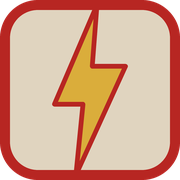
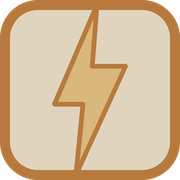
Recolour the mark to the deck-ink register and warm the page

diff --git a/app/globals.css b/app/globals.css
@@ -1,11 +1,11 @@
 @import "tailwindcss";
 
 @theme {
-  --color-paper: #f4f3ef;
-  --color-card: #fbfaf7;
+  --color-paper: #f6f4ef;
+  --color-card: #fcfbf8;
   --color-ink: #2c2c2a;
   --color-muted: #78776f;
-  --color-rule: #c9c7bd;
+  --color-rule: #ccc6b8;
   --color-question: #185fa5;
   --color-answer: #0f6e56;
   --font-sans: var(--font-body), ui-sans-serif, system-ui, sans-serif;

diff --git a/tools/wordmark.py b/tools/wordmark.py
@@ -54,7 +54,15 @@ BOLT_STROKE = 2.0
 BOLT = "M18 0 L0 42 H12 L9 72 L30 26 H16 Z"      # ink 30 wide, 72 tall
 BOLT_W, BOLT_H = 30.0, 72.0
 
-CREAM, RED, GOLD, INK = "#E0D4BF", "#B72622", "#DAAD3B", "#2C2C2A"
+# The frame and the bolt are named for their role, not their hue: they were a
+# saturated red and gold, and the mark was then the only mid-light, heavily
+# saturated field on the site. Every deck tint sits at L 83-90% and every deck
+# ink at S 33-51%/L 30-59%, so the two hot colours were moved into that ink
+# register, taking the warm hue SOLID already uses (tint #FAD9BE, ink #B87A3C).
+# They stay inks rather than tints because the frame is a 4.2/76 hairline and
+# has to hold the mark together at favicon size; a pastel frame on the cream
+# ground is 5 points of lightness apart and disappears there.
+CREAM, FRAME, BOLT_FILL, INK = "#E0D4BF", "#B87A3C", "#D9B77D", "#2C2C2A"
 
 
 def find_font(family="IBM Plex Mono Regular", needed="FLASHCARDS"):
@@ -147,10 +155,10 @@ def main():
     spacing is measured on ink: {GAP:g} either side of the bolt, {PAD:g} to the frame.
   -->
   <rect x="0" y="0" width="{width:g}" height="{HEIGHT:g}" rx="{RADIUS:g}" fill="{CREAM}"/>
-  <rect x="{FRAME_STROKE / 2:g}" y="{FRAME_STROKE / 2:g}" width="{width - FRAME_STROKE:g}" height="{HEIGHT - FRAME_STROKE:g}" rx="{RADIUS - FRAME_STROKE / 2:g}" fill="none" stroke="{RED}" stroke-width="{FRAME_STROKE:g}"/>
+  <rect x="{FRAME_STROKE / 2:g}" y="{FRAME_STROKE / 2:g}" width="{width - FRAME_STROKE:g}" height="{HEIGHT - FRAME_STROKE:g}" rx="{RADIUS - FRAME_STROKE / 2:g}" fill="none" stroke="{FRAME}" stroke-width="{FRAME_STROKE:g}"/>
   <path d="{flash.getCommands()}" fill="{INK}"/>
   <g transform="translate({bolt_x:.2f},{(HEIGHT - BOLT_H) / 2:g})">
-    <path d="{BOLT}" fill="{GOLD}" stroke="{RED}" stroke-width="{BOLT_STROKE:g}" stroke-linejoin="round"/>
+    <path d="{BOLT}" fill="{BOLT_FILL}" stroke="{FRAME}" stroke-width="{BOLT_STROKE:g}" stroke-linejoin="round"/>
   </g>
   <path d="{cards.getCommands()}" fill="{INK}"/>
 </svg>

diff --git a/tools/app-icons.py b/tools/app-icons.py
@@ -10,7 +10,9 @@ the same object, with one deliberate exception noted below.
 """
 from PIL import Image, ImageDraw
 
-CREAM, RED, GOLD = (224, 212, 191), (183, 38, 34), (218, 173, 59)
+# Named for role, not hue, and kept in step with tools/wordmark.py — change
+# one, change the other. The reasoning for these values lives there.
+CREAM, FRAME, BOLT_FILL = (224, 212, 191), (184, 122, 60), (217, 183, 125)
 SS = 8                       # supersample, then downsample for clean edges
 
 # Everything as a fraction of the mark's 76-unit height, and these are the
@@ -36,7 +38,7 @@ def draw_icon(size, opaque):
     if not opaque:
         d.rounded_rectangle([0, 0, n - 1, n - 1], radius=r, fill=CREAM)
     # Same band as the SVG: the frame sits on the outer edge of the cream.
-    d.rounded_rectangle([0, 0, n - 1, n - 1], radius=r, outline=RED, width=stroke)
+    d.rounded_rectangle([0, 0, n - 1, n - 1], radius=r, outline=FRAME, width=stroke)
 
     # The bolt keeps its aspect and its overshoot: as tall relative to the mark
     # as it is in the wordmark, so it meets the frame top and bottom.
@@ -45,12 +47,12 @@ def draw_icon(size, opaque):
     sx, sy = w / 30, h / 72
     ox, oy = (n - w) / 2, (n - h) / 2
     pts = [(ox + x * sx, oy + y * sy) for x, y in BOLT]
-    d.polygon(pts, fill=GOLD)
+    d.polygon(pts, fill=BOLT_FILL)
     # Not polygon(outline=...): that strokes each edge separately and leaves a
     # notch at every concave corner, which is where this bolt has four of them.
     # A closed line with rounded joins is also what the SVG does — the wordmark
     # sets stroke-linejoin="round" — so the two bolts come out the same shape.
-    d.line(pts + [pts[0]], fill=RED, width=max(1, round(BOLT_STROKE * n)),
+    d.line(pts + [pts[0]], fill=FRAME, width=max(1, round(BOLT_STROKE * n)),
            joint="curve")
 
     im = im.resize((size, size), Image.LANCZOS)
